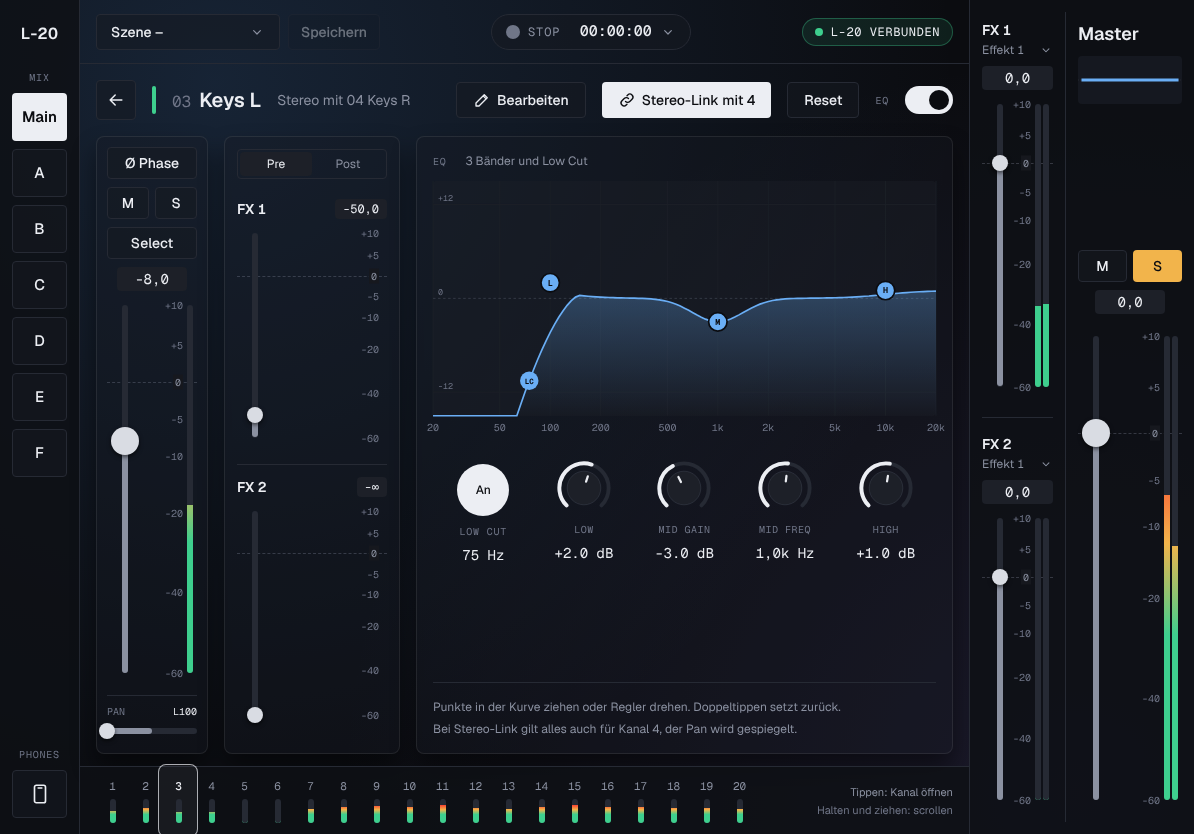
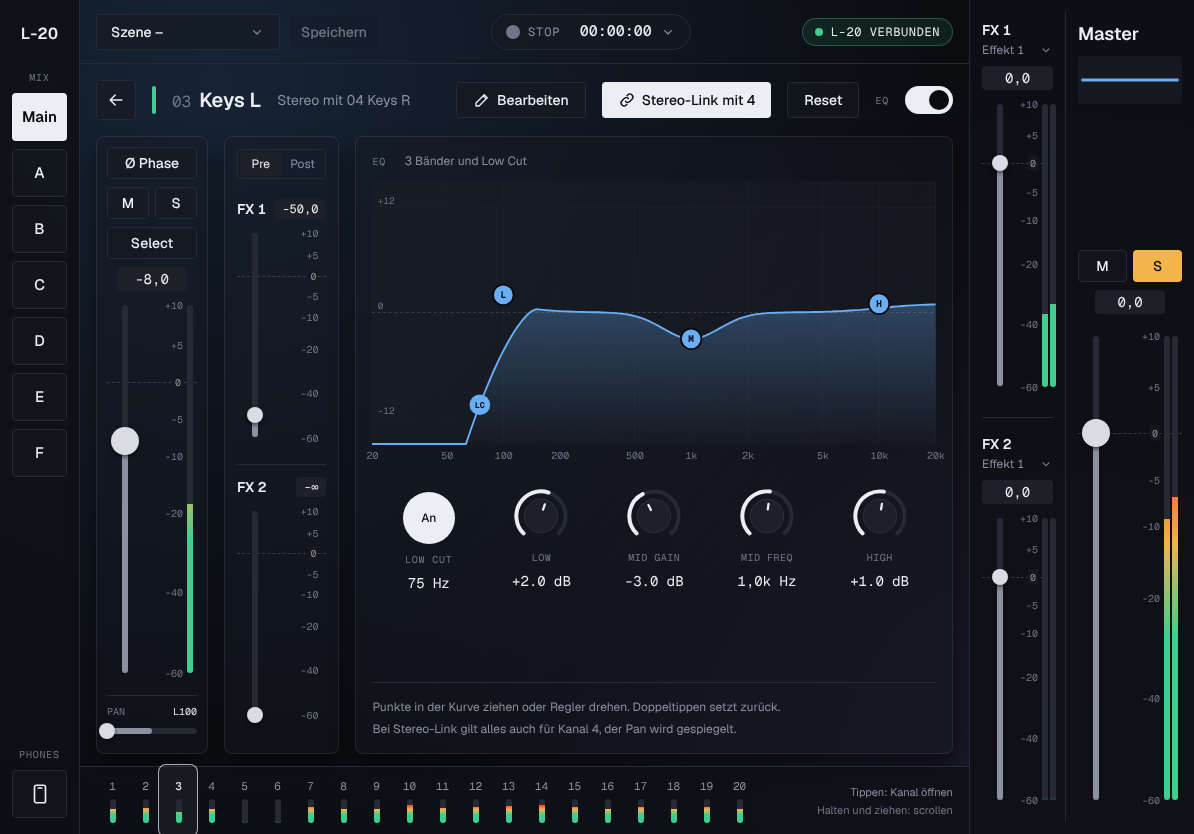
fix(ui): FX send card sized by its content
Claude-Session: https://claude.ai/code/session_01KbLEJ1Gsh3xGpwrhXZZo4P

diff --git a/src/ui/screens/ChannelDetail.tsx b/src/ui/screens/ChannelDetail.tsx
@@ -156,7 +156,7 @@ export function ChannelDetail({ ch, onBack }: { ch: number; onBack: () => void }
             </div>
           )}
         </section>
-        <section className="card flex w-44 shrink-0 flex-col p-3">
+        <section className="card flex w-fit shrink-0 flex-col p-3">
           <div
             aria-label="FX-Sends Pre/Post"
             className="border-line grid grid-cols-2 rounded border p-0.5 text-xs"
@@ -180,7 +180,7 @@ export function ChannelDetail({ ch, onBack }: { ch: number; onBack: () => void }
           <div className="divide-line mt-2 flex min-h-0 flex-1 flex-col divide-y">
             {(['fx1', 'fx2'] as FxMixId[]).map((mix) => (
               <div key={mix} className="flex min-h-0 flex-1 flex-col py-3">
-                <div className="flex items-center justify-between">
+                <div className="flex items-center justify-between gap-2">
                   <span className="text-sm font-semibold">{mix === 'fx1' ? 'FX 1' : 'FX 2'}</span>
                   <ValueBox className="text-xs">{formatDb(c.sends[mix].level)}</ValueBox>
                 </div>

diff --git a/src/ui/components/controls.tsx b/src/ui/components/controls.tsx
@@ -97,7 +97,7 @@ export function Fader({
         label={label}
         valueText={`${formatDb(db)} dB`}
       />
-      <div className="text-fg3 relative flex-1 font-mono text-[10px]">
+      <div className="text-fg3 relative min-w-7 flex-1 font-mono text-[10px]">
         {SCALE_MARKS.map((m) => (
           <span
             key={m}
